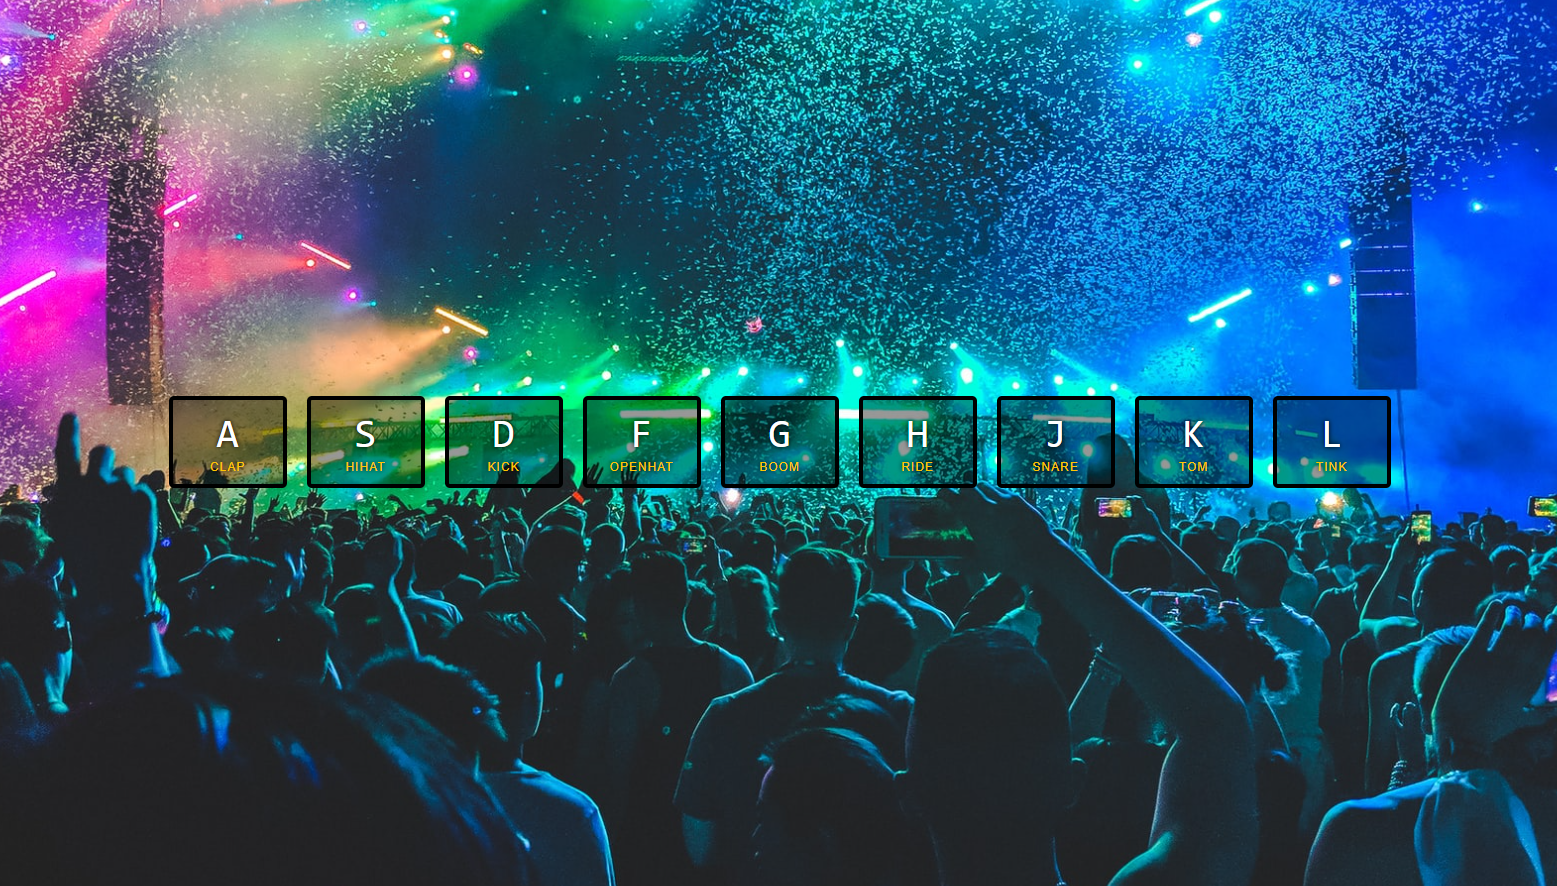
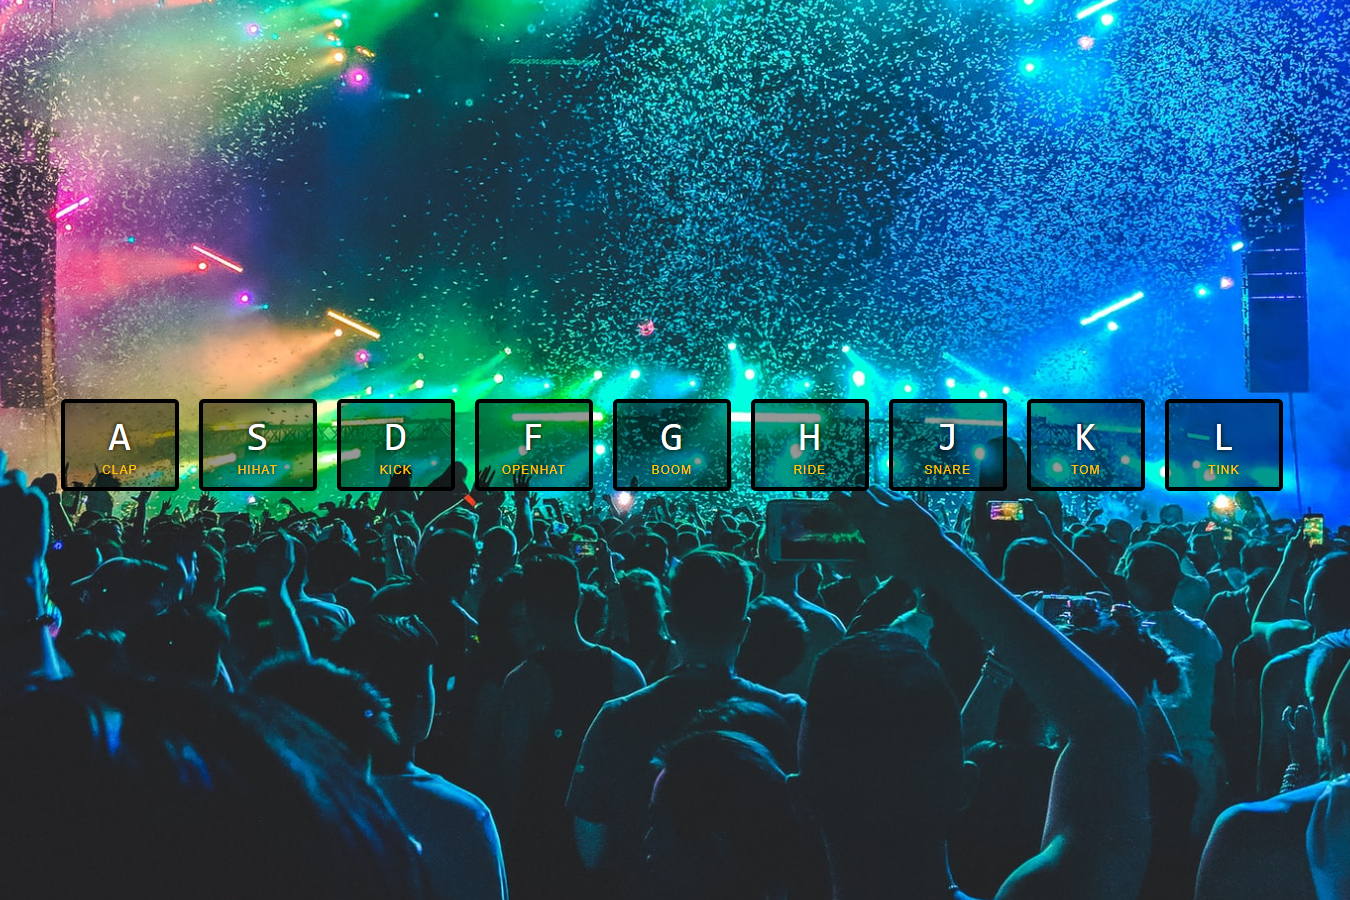
added js-css-clock

diff --git a/style.css b/style.css
@@ -22,12 +22,11 @@ h1 {
     font-size: 4rem;
 }
 
-.img {
+.container {
     background: url(./images/js-road.jpg), rgba(255, 255, 255, 0.3);
     background-blend-mode: lighten;
     min-height: 100%;
     position: relative;
-    /* opacity: 0.7; */
     background-position: center;
     background-size: cover;
     background-repeat: no-repeat;
@@ -38,11 +37,11 @@ h1 {
     display: flex;
     justify-content: flex-start;
     align-items: center;
-    width: 77vw;
+    width: 75vw;
     margin: auto;
     padding: 100px;
     text-align: center;
-    text-transform: uppercase;
+    /* text-transform: capitalize; */
     color: #ffffff;
     flex-wrap: wrap;
 }
@@ -50,7 +49,6 @@ h1 {
 .box {
     width: 200;
     height: 40vh;
-    /* border: 2px solid red; */
     background-color: white;
     display: flex;
     flex-direction: column;
@@ -61,8 +59,9 @@ h1 {
 }
 
 #boximg {
-    height: 200px;
-    width: 300px;
+    height: 22vh;
+    width: 15vw;
+    resize: contain;
 }
 
 .links {

diff --git a/script.js b/script.js
@@ -14,7 +14,7 @@ const JS30Data = [
         imgURL: "./images/js-and-css-clock.png",
         repoURL: "https://github.com/farukci/JS30-02-JS-and-CSS-Clock",
         liveURL: "https://farukci.github.io/JS30-02-JS-and-CSS-Clock/"
-    }
+    },
 ]
 
 

diff --git a/index.html b/index.html
@@ -15,7 +15,7 @@
         <p>This page displays projects which completed by me in the Wes Bos JavaScript 30 Challenge!</p>
     </header>
     
-    <div class="img">
+    <div class="container">
         <div class="boxes">
 
         </div>
